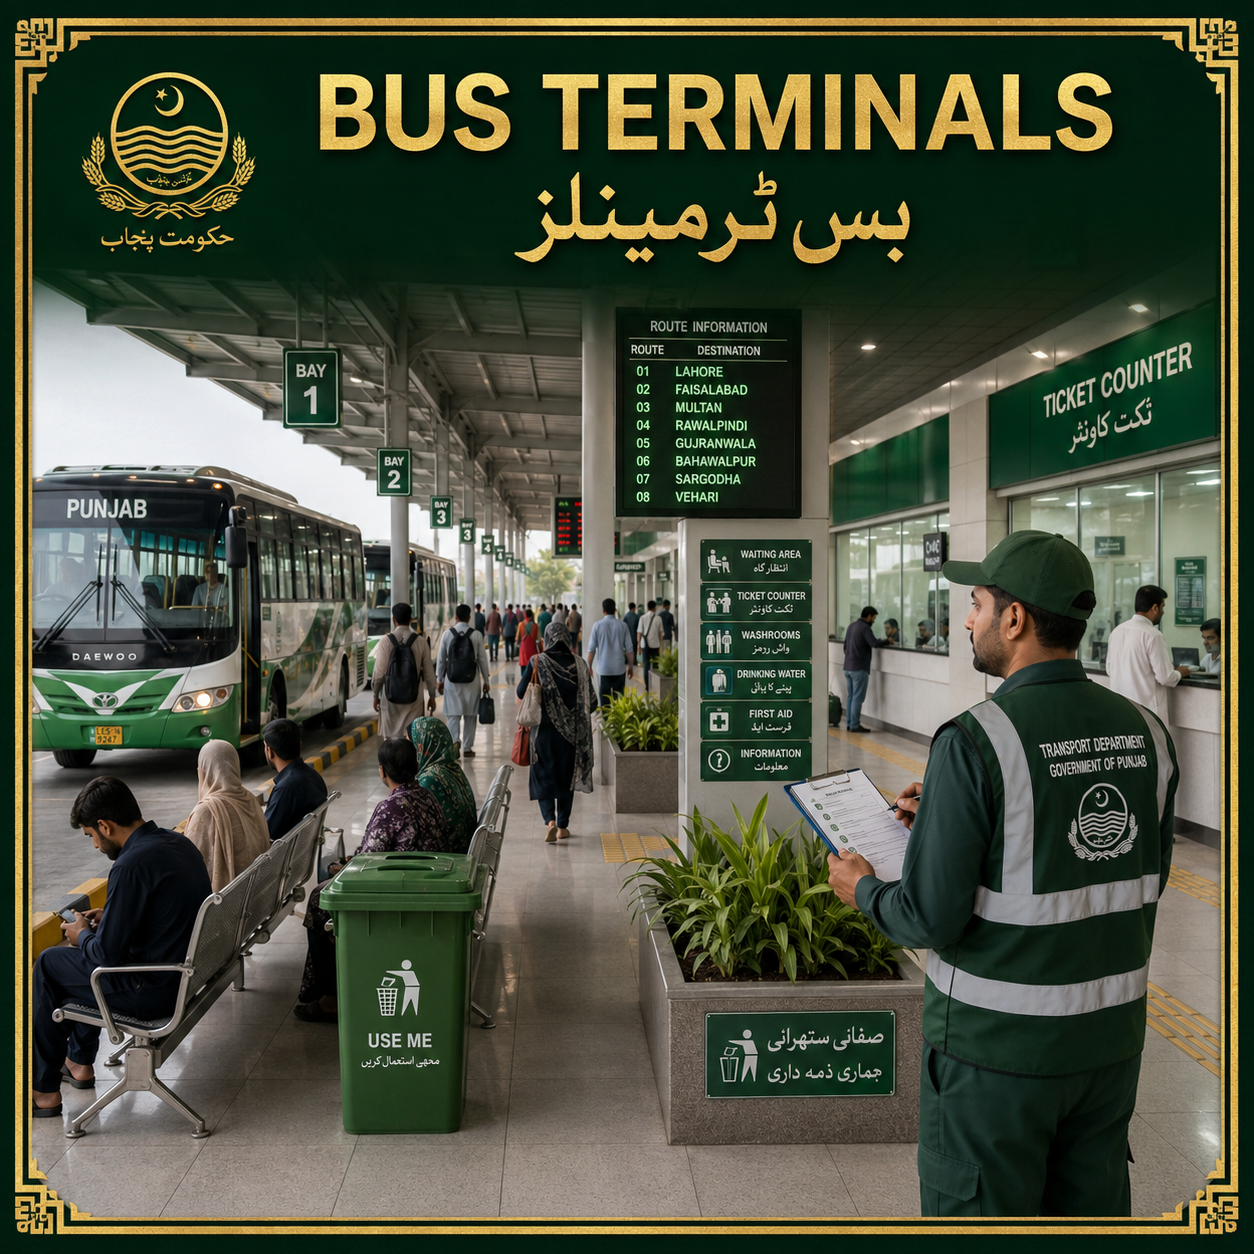
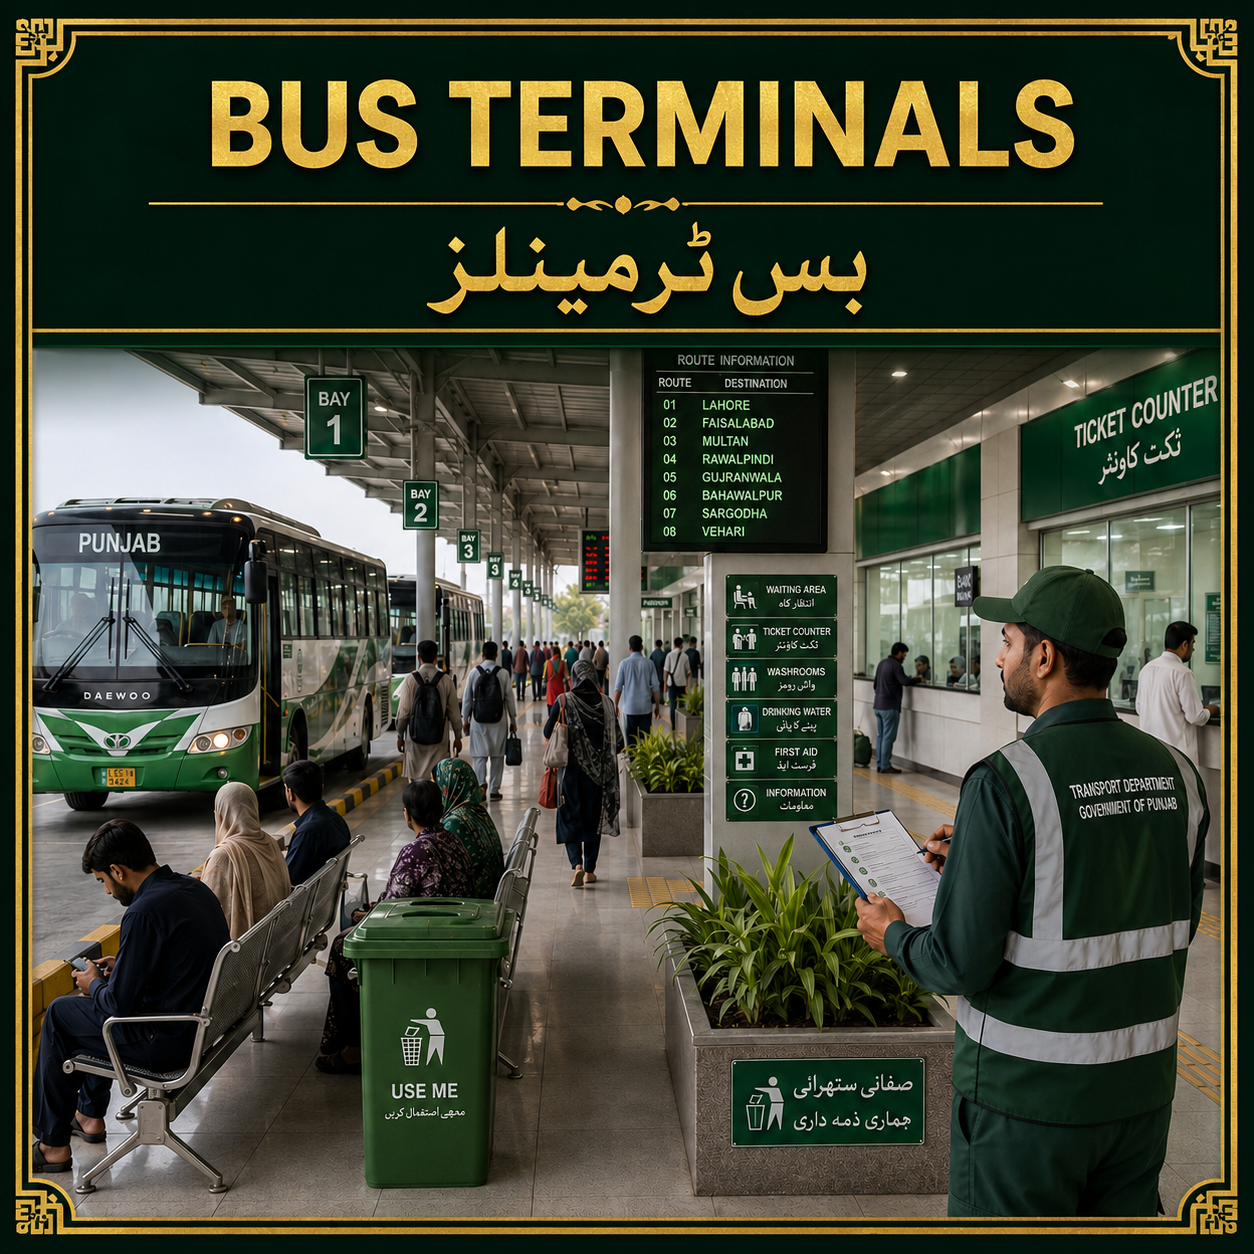
update kpi images

diff --git a/public/css/ppmu-kpi.css b/public/css/ppmu-kpi.css
@@ -7035,6 +7035,75 @@ body:has(.ppmu-main-dashboard),
     }
 }
 
+/* Homepage KPI artwork cards: the supplied artwork already contains its title. */
+.ppmu-main-dashboard .ppmu-kpi-grid {
+    grid-auto-rows: minmax(180px, auto);
+}
+
+.ppmu-main-dashboard .ppmu-kpi-tile {
+    min-height: 180px;
+    max-height: none;
+    padding: 4px;
+    gap: 4px;
+    border: 2px solid #5ca47b;
+    border-radius: 10px;
+    background: #fff;
+    box-shadow: 0 5px 14px rgba(8, 116, 67, .08);
+}
+
+.ppmu-main-dashboard .ppmu-kpi-tile:hover {
+    border-color: #087443;
+    box-shadow: 0 9px 20px rgba(8, 116, 67, .15);
+}
+
+.ppmu-main-dashboard .ppmu-kpi-tile-hero {
+    flex: 1 1 auto;
+    width: 100%;
+    min-height: 0;
+    height: auto;
+    padding: 0;
+    overflow: hidden;
+    border: 0;
+    border-radius: 6px;
+    background: #fff;
+}
+
+.ppmu-main-dashboard .ppmu-kpi-tile-png,
+.ppmu-main-dashboard .ppmu-kpi-tile .ppmu-kpi-tile-png,
+.ppmu-main-dashboard .ppmu-kpi-tile:hover .ppmu-kpi-tile-png {
+    width: 100%;
+    height: 100%;
+    max-width: none;
+    max-height: none;
+    object-fit: cover;
+    object-position: center;
+    transform: none;
+    filter: none;
+}
+
+.ppmu-main-dashboard .ppmu-kpi-tile-foot {
+    flex: 0 0 auto;
+    gap: 0;
+    padding: 0;
+}
+
+.ppmu-main-dashboard .ppmu-kpi-tile-btn {
+    width: 68%;
+    max-width: 130px;
+    height: 22px;
+    min-height: 22px;
+    margin: 0;
+    align-self: center;
+    padding: 0 6px;
+    border-radius: 5px;
+    font-size: 9px;
+    box-shadow: 0 3px 8px rgba(4, 120, 87, .16);
+}
+
+.ppmu-main-dashboard .ppmu-kpi-tile-btn .bi {
+    font-size: 9px;
+}
+
 @media (min-width: 992px) {
     .ppmu-detail-page .ppmu-kpi-specific-grid {
         gap: 7px;

diff --git a/database/seeders/KpiCardSeeder.php b/database/seeders/KpiCardSeeder.php
@@ -13,10 +13,10 @@ class KpiCardSeeder extends Seeder
         $metricConfig = app(KpiMetricConfigService::class);
 
         $cards = [
-            ['Price of Roti', 'price-of-roti', 'Price Control', 10, 'monthly'],
-            ['Price of Bakery Bread', 'price-of-plain-bakery-bread', 'Price Control', 5, 'monthly'],
+            ['Price of Roti', 'price-of-roti', 'Price Control', 10, 'monthly', 'Price of Roti.png'],
+            ['Price of Bakery Bread', 'price-of-plain-bakery-bread', 'Price Control', 5, 'monthly', 'Price of Bakery Bread.png'],
             ['Price Control of Essential Commodities', 'price-control-of-essential-commodities', 'Price Control', 10, 'monthly'],
-            ['Repair/Patchwork of Small Roads/Lane Marking', 'repair-of-small-roads-in-both-urban-and-rural-areas', 'Infrastructure', 3, 'monthly'],
+            ['Repair/Patchwork of Small Roads/Lane Marking', 'repair-of-small-roads-in-both-urban-and-rural-areas', 'Infrastructure', 3, 'monthly', 'Patchwork of Small Roads.png'],
             ['Zebra Crossing in Front of Schools', 'zebra-crossings', 'Infrastructure', 2, 'monthly'],
             ['Dysfunctional Streetlights', 'dysfunctional-streetlights', 'Infrastructure', 5, 'monthly'],
             ['Covering of Manholes', 'covering-of-manholes', 'Infrastructure', 5, 'monthly'],
@@ -41,7 +41,9 @@ class KpiCardSeeder extends Seeder
 
         $activeSlugs = [];
 
-        foreach ($cards as $index => [$title, $slug, $category, $marks, $frequency]) {
+        foreach ($cards as $index => $card) {
+            [$title, $slug, $category, $marks, $frequency] = $card;
+            $imageFile = $card[5] ?? $title.'.png';
             $activeSlugs[] = $slug;
             $metrics = $metricConfig->cardsFor($slug);
 
@@ -53,7 +55,7 @@ class KpiCardSeeder extends Seeder
                     'category' => $category,
                     'description' => $title.' — performance, reporting and compliance monitoring across Punjab.',
                     'icon' => $slug.'.svg',
-                    'image_path' => 'images/kpi-images/'.$slug.'.png',
+                    'image_path' => 'images/kpi-images/'.$imageFile,
                     'frequency' => $frequency,
                     'total_marks' => $marks,
                     'is_active' => true,

diff --git a/app/Models/KpiCard.php b/app/Models/KpiCard.php
@@ -26,8 +26,25 @@ class KpiCard extends Model
     {
         $path = ltrim((string) $this->image_path, '/');
 
-        return $path !== '' && is_file(public_path($path))
-            ? $path
+        if ($path !== '' && is_file(public_path($path))) {
+            return $path;
+        }
+
+        $fileNamesBySlug = [
+            'repair-of-small-roads-in-both-urban-and-rural-areas' => 'Patchwork of Small Roads.png',
+            'violation-of-marriage-functions-act' => 'Marriage Functions Act Compliance.png',
+            'graveyards' => 'Graveyards Standards.png',
+            'maintenance-of-greenbelts' => 'Maintenance of Greenbelts and Family Parks.png',
+            'regulation-of-shops-and-handcarts' => 'Management of Rehri Bazar and Cart Bazar.png',
+            'price-of-plain-bakery-bread' => 'Price of Bakery Bread.png',
+            'zebra-crossings' => 'Zebra Crossing in Front of Schools.png',
+        ];
+
+        $fileName = $fileNamesBySlug[$this->slug] ?? $this->title.'.png';
+        $namedPath = 'images/kpi-images/'.$fileName;
+
+        return is_file(public_path($namedPath))
+            ? $namedPath
             : 'images/kpi-images/default-kpi.png';
     }
     public function formFields() { return $this->hasMany(KpiFormField::class)->orderBy('sort_order'); }

diff --git a/resources/views/components/kpi-card.blade.php b/resources/views/components/kpi-card.blade.php
@@ -5,14 +5,12 @@
     $kpiDefaultQuery = http_build_query(app(\App\Services\KpiFrequencyService::class)->defaultParamsFor($card->slug));
     $detailUrl = route('kpi.dashboard', $card).($kpiDefaultQuery ? '?'.$kpiDefaultQuery : '');
 @endphp
-<article class="ppmu-kpi-tile ppmu-kpi-tile-{{ $status }}" data-kpi-card aria-labelledby="kpi-title-{{ $card->id }}">
+<article class="ppmu-kpi-tile ppmu-kpi-tile-{{ $status }}" data-kpi-card aria-label="{{ $card->title }}">
     <div class="ppmu-kpi-tile-hero">
         <img class="ppmu-kpi-tile-png" src="{{ $imageUrl }}" alt="{{ $card->title }}" loading="lazy" decoding="async">
     </div>
 
     <div class="ppmu-kpi-tile-foot">
-        <h3 class="ppmu-kpi-tile-title" id="kpi-title-{{ $card->id }}" title="{{ $card->title }}">{{ $card->title }}</h3>
-
         <a href="{{ $detailUrl }}" class="ppmu-kpi-tile-btn" target="_blank" rel="noopener noreferrer" data-kpi-detail-link data-kpi-default-query="{{ $kpiDefaultQuery }}" title="Open KPI dashboard">
             <i class="bi bi-eye"></i> View Dashboard
         </a>
